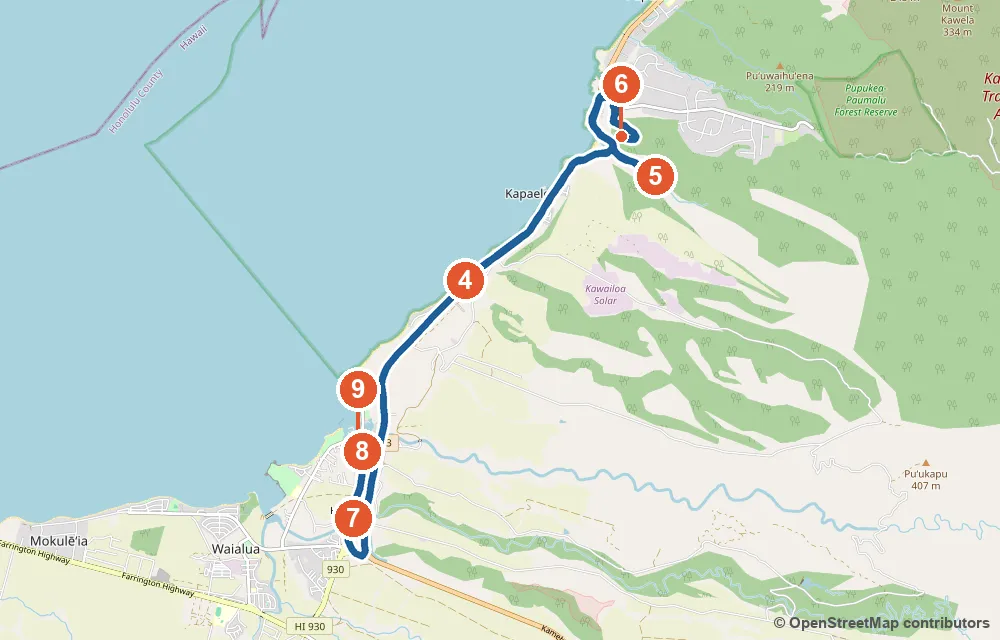
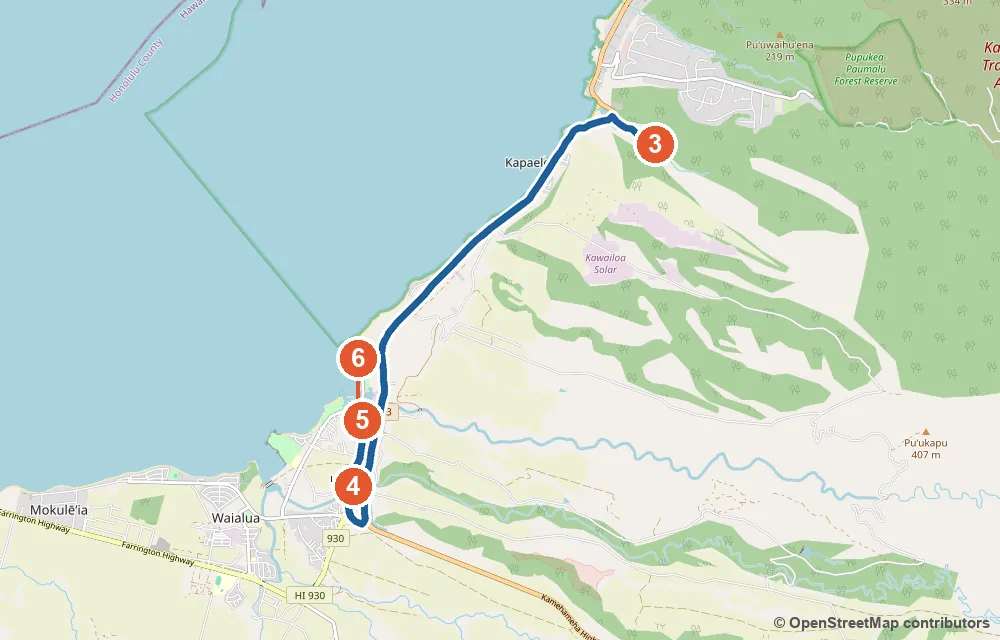
11/8 스탑 다이어트 — 그린월드·라니아케아·헤이아우 뺌, 커피는 숙소 근처 테이크아웃

diff --git a/index.html b/index.html
@@ -12,7 +12,7 @@
 // GitHub Pages 는 HTML 을 10분 캐시한다(헤더는 못 바꿈) → 열 때마다 version.json 을 캐시 없이 확인해
 // 새 버전이면 주소에 ?v=버전 을 붙여 한 번만 새로 불러온다 (같은 버전으로 이미 시도했으면 멈춤)
 (function () {
-  var BUILD = 'd3f5a4e1de';
+  var BUILD = '93f5e79c60';
   try {
     fetch('version.json?t=' + Date.now(), { cache: 'no-store' })
       .then(function (r) { return r.ok ? r.json() : null; })
@@ -354,7 +354,7 @@ footer { max-width: 1100px; margin: 0 auto; padding: 0 16px 48px; color: var(--m
 </section><section class="sec hotel"><div class="sec-head"><span class="sec-ic">🏨</span><h2 id="숙소-메리어트-3박-비치타워-콘도-4박-걸어서-3분">숙소</h2><small>메리어트 3박 · 비치타워 콘도 4박 (걸어서 3분)</small></div>
 <div class="tickets"><div class="hotel"><div class="tk-top"><span>11/4 (수) – 11/7 (토) · 3박 · 아고다</span></div><div class="ht-name">와이키키 비치 메리어트 리조트 &amp; 스파</div><div class="ht-times"><div><span>체크인</span><b>15:00</b><small>11/4 (수)</small></div><div><span>체크아웃</span><b>11:00</b><small>11/7 (토)</small></div></div><dl class="ht-facts"><dt>☎ 전화</dt><dd><ul class="ht-fac"><li>한국에서 <strong>001-1-808-922-6611</strong> (KT 001 · LG U+ 002 · SK 00700)</li><li>휴대폰은 <strong><a href="tel:+18089226611">+1 808 922 6611</a></strong> (누르면 바로 걸려요)</li><li>프런트 24시간 · 하와이는 한국보다 19시간 늦어요</li></ul></dd><dt>🛏 방</dt><dd><strong>객실 2개 예약 확정</strong> — 방 1: 시티뷰 퀸 1 또는 더블 2 (성인 2) · 방 2: 와이키키 시티뷰 킹 1 + 소파베드, 발코니 (성인 3) — <strong>침대는 킹 1 + 소파베드뿐</strong> (추가 침대·침대 2개 방 변경 안 됨, 11/3 확인)</dd><dt>🚿 욕실</dt><dd>객실마다 1개</dd><dt>🍳 조식</dt><dd><strong>방마다 성인 2명 포함</strong> (전화 확인 11/3) — 2번 방 세 번째 사람은 <strong>추가 요금</strong> · 2층 Kuhio Beach Grill 뷔페 (05:00–11:00)</dd><dt>🅿 주차</dt><dd><strong>호텔 셀프 주차</strong> $65/일 · 발렛 $80/일 (세금 별도 · 셀프 3박 약 $204) — 근처 반얀 주차장은 24시간 $50 (공사 중 요금 · 높이 183cm 제한)이라 하루 $15 정도 차이 · ⚠ 후기: 셀프 주차장이 좁고 자주 꽉 차서 발렛으로 돌린 일, SUV가 높아 못 들어가 발렛 쓴 일 있음 (2024~2026) · <strong>미리 예약 필요 없음</strong> (11/3 호텔 확인)</dd><dt>🏝 시설</dt><dd><ul class="ht-fac"><li>🏊 <strong>수영장 2개</strong> — 옥상 Queensbreak에 가족 풀 + 21세 이상 성인 풀, 온수 욕조 (07:00–22:00)</li><li>🍽 <strong>식당·바·카페 7곳</strong> — Kuhio Beach Grill (조식 뷔페 05–11, 2층) · Arancino di Mare (이탈리안 저녁 17–21) · Queensbreak 레스토랑·풀사이드 바 (옥상 11–23) · 스타벅스 2곳 · Island Vintage 셰이브아이스 — Sansei·DK Steakhouse는 2025.9 폐업</li><li>🛒 <strong>ABC 스토어</strong> (로비층 편의점)</li><li>🧺 <strong>셀프 세탁실</strong> (Paoakalani 타워 2층) — 세탁·건조 각 $6.50 (2026.5 투숙 후기), 카드 결제 · 드라이클리닝 서비스 별도</li><li>💆 Royal Kaila 스파 (09–18) · 피트니스 24시간</li><li>🌺 우쿨렐레·훌라·레이 만들기 수업 (리조트피 포함)</li><li>🎭 Paina Waikiki 루아우 디너쇼 (월·수·금·토·일, 별도 예약)</li><li>🗣 일본어 직원 있음 · 한국어 직원 없음 (11/3 전화 확인)</li></ul></dd></dl><ul class="ht-notes"><li>11/4 체크인 전·11/7 체크아웃 뒤 <strong>벨데스크 짐 보관</strong></li><li>리조트피 객실당 1박 $59 + 세금 (약 $70, 현장 결제 — Wi-Fi·비치체어 또는 부기보드·문화 수업 포함)</li><li>체크인은 예약자 본인 여권 + 실물 카드</li></ul></div><div class="hotel"><div class="tk-top"><span>11/7 (토) – 11/11 (수) · 4박</span></div><div class="ht-name">와이키키 비치 타워 콘도 (에어비앤비)</div><div class="ht-times"><div><span>체크인</span><b>15:00</b><small>11/7 (토)</small></div><div><span>체크아웃</span><b>11:00</b><small>11/11 (수)</small></div></div><dl class="ht-facts"><dt>☎ 전화</dt><dd><ul class="ht-fac"><li>관리 회사(캡틴 쿡 리조트)는 <strong>에어비앤비 앱 메시지</strong></li><li>관리자 전화번호는 11/5 15:00(하와이)부터 앱의 입실 안내에 나와요</li></ul></dd><dt>🛏 방</dt><dd><strong>침실 2개</strong> — 안방 킹 1 · 게스트룸 트윈 2 (요청 시 킹 1) · 거실 퀸 소파베드 · 최대 6명 · 실내 약 107㎡ + 오션뷰 발코니</dd><dt>🚿 욕실</dt><dd><strong>2개</strong> (안방 전용 1 + 공용 1)</dd><dt>🍳 조식</dt><dd>없음 — 주방 완비, 아침은 장봐서</dd><dt>🅿 주차</dt><dd><strong>발렛 1대 무료</strong> (차 높이 188cm까지, 셔틀 크기 밴 불가) · 차량 사전 등록 필요 없음 · 머무는 동안만 · 리조트피 없음</dd><dt>🏝 시설</dt><dd><ul class="ht-fac"><li>🧺 집 안 <strong>세탁기·건조기</strong> (무료)</li><li>🏊 건물 수영장·스파·피트니스</li><li>🍳 주방 완비</li></ul></dd></dl><ul class="ht-notes"><li>체크인·체크아웃 시각은 <strong>에어비앤비 예약·호스트 안내 기준</strong></li><li>도착 후 <strong>관리자에게 전화</strong>해서 체크인</li><li>매일 청소·수건 보충 없음</li><li>커피·조미료·식용유·지퍼백 없음</li></ul></div></div>
 </section><section class="sec overview"><div class="sec-head"><span class="sec-ic">🗓</span><h2 id="1-한눈에-보기">한눈에 보기</h2></div>
-<div class="ov-grid"><a class="ov c0" href="#114-수-도착-짐부터-호텔에-가볍게"><div class="ov-head"><b>11/4</b><em>수</em><span>도착</span></div><ul><li><i>🛍</i>월마트 / 돈키호테 (장보기)</li><li><i>🍳</i>기내</li><li><i>🍱</i>Highway Inn 카카아코</li><li><i>🍽</i>🌅 DECK. 일몰 (17:30)</li></ul></a><a class="ov c1" href="#115-목-진주만-와이켈레-아울렛"><div class="ov-head"><b>11/5</b><em>목</em><span>진주만</span></div><ul><li><i>🛍</i><strong>와이켈레 아울렛</strong></li><li><i>🍳</i>메리어트 조식</li><li><i>🍱</i>Restaurant 604</li><li><i>🍽</i>🍝 Arancino (호텔 1층)</li></ul></a><a class="ov c2" href="#116-금-동부-해안-카일루아-해안-먼저-저녁은-카일루아"><div class="ov-head"><b>11/6</b><em>금</em><span>동부 해안</span></div><ul><li><i>🥾</i><strong>마카푸우 등대</strong> · (선택, 아들) 라니카이 필박스</li><li><i>🛍</i><strong>카일루아</strong> 마노아 초콜릿·Whole Foods·타운</li><li><i>🍳</i>메리어트 조식</li><li><i>🍱</i>Kalapawai Café</li><li><i>🍽</i>🍺 <strong>Yard House</strong> (워크인 · 비치워크)</li></ul></a><a class="ov c3" href="#117-토-체크아웃-와이켈레-골프-큰형나-교회-작은형부모님-비치타워-체크인"><div class="ov-head"><b>11/7</b><em>토</em><span>이동일</span></div><ul><li><i>🥾</i>⛳ <strong>와이켈레 골프 12:34</strong> (큰형·나) · <del>다이아몬드헤드</del> ❌</li><li><i>🛍</i>⛪ 교회 10~14 (작은형·부모님) · 🧳 체크아웃 → 비치타워 체크인 15:00</li><li><i>🍳</i>메리어트 조식</li><li><i>🍱</i>각자 (골프장 스낵바 · 교회)</li><li><i>🍽</i>🍚 <strong>Suntory</strong> ✅ 다녀옴 (단품 샤브)</li></ul></a><a class="ov c4" href="#118-일-노스쇼어-종일"><div class="ov-head"><b>11/8</b><em>일</em><span>노스쇼어</span></div><ul><li><i>🥾</i><strong>와이메아 밸리 폭포</strong> · 헤이아우 전망</li><li><i>🛍</i><strong>할레이바 타운</strong> · 돌 플랜테이션 · 🛒 H Mart (귀갓길)</li><li><i>🍳</i>🏠 콘도 아침</li><li><i>🍱</i>Giovanni's</li><li><i>🍽</i>Haleiwa Joe's (노을)</li></ul></a><a class="ov c5" href="#119-월-서쪽-해안-93번-드라이브-쇼핑-와이키키-마지막-여유일"><div class="ov-head"><b>11/9</b><em>월</em><span>서쪽 해안·쇼핑</span></div><ul><li><i>🥾</i><strong>93번 서쪽 해안 드라이브</strong> (코올리나 라군·마카하·요코하마 베이)</li><li><i>🛍</i><strong>워드 빌리지·월마트</strong> (귀갓길 선택)</li><li><i>🍳</i>🏠 콘도 아침</li><li><i>🍱</i>Monkeypod Kitchen (코올리나)</li><li><i>🍽</i>🐟 <strong>Nico's Pier 38</strong> (시푸드)</li></ul></a><a class="ov c6" href="#1110-화-뵤도인-폴리네시안-문화센터-pcc"><div class="ov-head"><b>11/10</b><em>화</em><span>PCC</span></div><ul><li><i>🥾</i><strong>팔리 전망대 · 뵤도인 사원</strong> (또는 호오말루히아)</li><li><i>🛍</i>후킬라우 마켓플레이스</li><li><i>🍳</i>🏠 콘도 아침</li><li><i>🍱</i>Seven Brothers / Giovanni's 카후쿠</li><li><i>🍽</i>PCC 루아우</li></ul></a><a class="ov c7" href="#1111-수-출발-veterans-day-공휴일"><div class="ov-head"><b>11/11</b><em>수</em><span>출발</span></div><ul><li><i>🍳</i>🏠 콘도 간단히 · 무스비 포장</li><li><i>🍱</i>기내</li></ul></a></div>
+<div class="ov-grid"><a class="ov c0" href="#114-수-도착-짐부터-호텔에-가볍게"><div class="ov-head"><b>11/4</b><em>수</em><span>도착</span></div><ul><li><i>🛍</i>월마트 / 돈키호테 (장보기)</li><li><i>🍳</i>기내</li><li><i>🍱</i>Highway Inn 카카아코</li><li><i>🍽</i>🌅 DECK. 일몰 (17:30)</li></ul></a><a class="ov c1" href="#115-목-진주만-와이켈레-아울렛"><div class="ov-head"><b>11/5</b><em>목</em><span>진주만</span></div><ul><li><i>🛍</i><strong>와이켈레 아울렛</strong></li><li><i>🍳</i>메리어트 조식</li><li><i>🍱</i>Restaurant 604</li><li><i>🍽</i>🍝 Arancino (호텔 1층)</li></ul></a><a class="ov c2" href="#116-금-동부-해안-카일루아-해안-먼저-저녁은-카일루아"><div class="ov-head"><b>11/6</b><em>금</em><span>동부 해안</span></div><ul><li><i>🥾</i><strong>마카푸우 등대</strong> · (선택, 아들) 라니카이 필박스</li><li><i>🛍</i><strong>카일루아</strong> 마노아 초콜릿·Whole Foods·타운</li><li><i>🍳</i>메리어트 조식</li><li><i>🍱</i>Kalapawai Café</li><li><i>🍽</i>🍺 <strong>Yard House</strong> (워크인 · 비치워크)</li></ul></a><a class="ov c3" href="#117-토-체크아웃-와이켈레-골프-큰형나-교회-작은형부모님-비치타워-체크인"><div class="ov-head"><b>11/7</b><em>토</em><span>이동일</span></div><ul><li><i>🥾</i>⛳ <strong>와이켈레 골프 12:34</strong> (큰형·나) · <del>다이아몬드헤드</del> ❌</li><li><i>🛍</i>⛪ 교회 10~14 (작은형·부모님) · 🧳 체크아웃 → 비치타워 체크인 15:00</li><li><i>🍳</i>메리어트 조식</li><li><i>🍱</i>각자 (골프장 스낵바 · 교회)</li><li><i>🍽</i>🍚 <strong>Suntory</strong> ✅ 다녀옴 (단품 샤브)</li></ul></a><a class="ov c4" href="#118-일-노스쇼어-종일"><div class="ov-head"><b>11/8</b><em>일</em><span>노스쇼어</span></div><ul><li><i>🥾</i><strong>와이메아 밸리 폭포</strong></li><li><i>🛍</i><strong>할레이바 타운</strong> · 돌 플랜테이션 · 🛒 H Mart (귀갓길)</li><li><i>🍳</i>🏠 콘도 아침</li><li><i>🍱</i>Giovanni's</li><li><i>🍽</i>Haleiwa Joe's (노을)</li></ul></a><a class="ov c5" href="#119-월-서쪽-해안-93번-드라이브-쇼핑-와이키키-마지막-여유일"><div class="ov-head"><b>11/9</b><em>월</em><span>서쪽 해안·쇼핑</span></div><ul><li><i>🥾</i><strong>93번 서쪽 해안 드라이브</strong> (코올리나 라군·마카하·요코하마 베이)</li><li><i>🛍</i><strong>워드 빌리지·월마트</strong> (귀갓길 선택)</li><li><i>🍳</i>🏠 콘도 아침</li><li><i>🍱</i>Monkeypod Kitchen (코올리나)</li><li><i>🍽</i>🐟 <strong>Nico's Pier 38</strong> (시푸드)</li></ul></a><a class="ov c6" href="#1110-화-뵤도인-폴리네시안-문화센터-pcc"><div class="ov-head"><b>11/10</b><em>화</em><span>PCC</span></div><ul><li><i>🥾</i><strong>팔리 전망대 · 뵤도인 사원</strong> (또는 호오말루히아)</li><li><i>🛍</i>후킬라우 마켓플레이스</li><li><i>🍳</i>🏠 콘도 아침</li><li><i>🍱</i>Seven Brothers / Giovanni's 카후쿠</li><li><i>🍽</i>PCC 루아우</li></ul></a><a class="ov c7" href="#1111-수-출발-veterans-day-공휴일"><div class="ov-head"><b>11/11</b><em>수</em><span>출발</span></div><ul><li><i>🍳</i>🏠 콘도 간단히 · 무스비 포장</li><li><i>🍱</i>기내</li></ul></a></div>
 
 </section><section class="sec days"><div class="sec-head"><span class="sec-ic">📍</span><h2 id="2-날짜별-상세-시간-장소-주차">날짜별 상세</h2><small>시간 · 장소 · 주차</small></div>
 <blockquote>
@@ -363,17 +363,17 @@ footer { max-width: 1100px; margin: 0 auto; padding: 0 16px 48px; color: var(--m
 <p><strong>날씨 줄 읽는 법</strong> (11/3 HST 조회): ☔ 비 확률과 🌡 최저~최고 = 미국 기상청(NWS) 지점 예보의 낮·밤 값 — <strong>11/9부터는</strong> 기상청 7일 예보 범위 밖이라 수치모델(Open-Meteo)의 하루 최대 비 확률·최저~최고 · 💨 낮(08–18시) 평균 바람과 최대 돌풍 = Open-Meteo. 초속 6~8m는 모자가 날아갈 만큼, 돌풍 15m 이상은 우산이 뒤집힐 만큼 세요. 예보는 매일 바뀌니 전날 다시 확인하세요.</p>
 </blockquote>
 <article class="day c0" data-date="11/8"><div class="day-head"><div class="date-badge"><b>11/8</b><span>일요일</span></div><div class="day-title"><h3 id="118-일-노스쇼어-종일">노스쇼어 종일</h3></div></div><div class="day-body">
-<p class="wx">🌧 할레이바·노스쇼어 ☔ 85% — 오전 50%대 → 오후 15~16시 85%로 <strong>갈수록 비</strong> · 🌡 22~27°C · 💨 돌풍 16m (동북동) · 파도 최대 2.2m 중형 — 그래서 야외(밸리·헤이아우)를 오전으로 당겼어요 · 큰 파도는 마른 모래까지 덮칠 수 있음 <em>(11/5 밤 갱신)</em></p>
-<figure class="routemap"><img src="maps/1108.webp?v=9b1a08839f" loading="lazy" width="1000" height="640" alt="11/8 지도"><figcaption><div class="rm-stops"><b>①</b> 비치타워 콘도 → <b>②</b> Green World 커피 → <b>③</b> 돌 플랜테이션 → <b>④</b> 라니아케아 → <b>⑤</b> 와이메아 밸리 → <b>⑥</b> 헤이아우 → <b>⑦</b> Giovanni's → <b>⑧</b> 할레이바 타운 → <b>⑨</b> Haleiwa Joe's → <b>⑩</b> H Mart 카카아코 → <b>⑪</b> 비치타워 콘도</div><div class="rm-meta">🚗 하루 운전 약 139km · 막히지 않으면 약 2시간 57분 · 파란 선 = 차</div><div class="rm-links">🧭 구글 지도 길찾기 <a href="https://www.google.com/maps/dir/?api=1&amp;origin=Waikiki+Beach+Tower+2470+Kalakaua+Ave+Honolulu&amp;destination=Waimea+Valley&amp;travelmode=driving&amp;waypoints=Green+World+Coffee+Farm+Wahiawa%7CDole+Plantation%7CLaniakea+Beach" target="_blank" rel="noopener">①→⑤</a><a href="https://www.google.com/maps/dir/?api=1&amp;origin=Waimea+Valley&amp;destination=Haleiwa+Joe%27s+66-011+Kamehameha+Hwy+Haleiwa&amp;travelmode=driving&amp;waypoints=Puu+o+Mahuka+Heiau+State+Historic+Site%7CGiovanni%27s+Shrimp+Truck+66-472+Kamehameha+Hwy+Haleiwa%7CHaleiwa+Store+Lots" target="_blank" rel="noopener">⑤→⑨</a><a href="https://www.google.com/maps/dir/?api=1&amp;origin=Haleiwa+Joe%27s+66-011+Kamehameha+Hwy+Haleiwa&amp;destination=Waikiki+Beach+Tower+2470+Kalakaua+Ave+Honolulu&amp;travelmode=driving&amp;waypoints=H+Mart+Kakaako+458+Keawe+St+Honolulu" target="_blank" rel="noopener">⑨→⑪</a></div></figcaption><details class="rm-zoom"><summary>🔍 확대 지도 — 할레이바·노스쇼어 (④~⑨)</summary><img src="maps/1108-zoom.webp?v=9b1a08839f" loading="lazy" width="1000" height="640" alt="11/8 할레이바·노스쇼어 확대 지도"></details></figure><div class="gallery"><figure><a href="https://commons.wikimedia.org/wiki/File:Dolejf2103.JPG" target="_blank" rel="noopener"><img src="https://thumb.wikimedia.org/wikipedia/commons/thumb/4/43/Dolejf2103.JPG/960px-Dolejf2103.JPG?utm_source=commons.wikimedia.org&utm_campaign=imageinfo&utm_content=thumbnail" alt="돌 플랜테이션" loading="lazy" decoding="async"></a><figcaption><b>돌 플랜테이션</b><small>© Ramon FVelasquez · CC BY-SA 3.0</small></figcaption></figure><figure><a href="https://commons.wikimedia.org/wiki/File:Haleiwa_bridge.jpg" target="_blank" rel="noopener"><img src="https://thumb.wikimedia.org/wikipedia/commons/thumb/9/92/Haleiwa_bridge.jpg/960px-Haleiwa_bridge.jpg?utm_source=commons.wikimedia.org&utm_campaign=imageinfo&utm_content=thumbnail" alt="할레이바 타운" loading="lazy" decoding="async"></a><figcaption><b>할레이바 타운</b><small>© Eric Guinther · CC BY-SA 3.0</small></figcaption></figure><figure><a href="https://commons.wikimedia.org/wiki/File:Ore_Haleiwa_Hawaii_Oahu_Matsumoto_Shave_Ice_(33673670325).jpg" target="_blank" rel="noopener"><img src="https://thumb.wikimedia.org/wikipedia/commons/thumb/1/16/Ore_Haleiwa_Hawaii_Oahu_Matsumoto_Shave_Ice_%2833673670325%29.jpg/960px-Ore_Haleiwa_Hawaii_Oahu_Matsumoto_Shave_Ice_%2833673670325%29.jpg?utm_source=commons.wikimedia.org&utm_campaign=imageinfo&utm_content=thumbnail" alt="마츠모토 셰이브아이스" loading="lazy" decoding="async"></a><figcaption><b>마츠모토 셰이브아이스</b><small>© Anthony Quintano from Honolulu, HI, Unit · CC BY 2.0</small></figcaption></figure><figure><a href="https://commons.wikimedia.org/wiki/File:Green_sea_turtle_(Chelonia_mydas)_Moorea.jpg" target="_blank" rel="noopener"><img src="https://thumb.wikimedia.org/wikipedia/commons/thumb/a/a3/Green_sea_turtle_%28Chelonia_mydas%29_Moorea.jpg/960px-Green_sea_turtle_%28Chelonia_mydas%29_Moorea.jpg?utm_source=commons.wikimedia.org&utm_campaign=imageinfo&utm_content=thumbnail" alt="바다거북 (호누)" loading="lazy" decoding="async"></a><figcaption><b>바다거북 (호누)</b><small>© Charles J. Sharp · CC BY-SA 4.0</small></figcaption></figure><figure><a href="https://commons.wikimedia.org/wiki/File:WaimeaValleyEntrance.jpg" target="_blank" rel="noopener"><img src="https://upload.wikimedia.org/wikipedia/commons/7/7d/WaimeaValleyEntrance.jpg?utm_source=commons.wikimedia.org&utm_campaign=imageinfo&utm_content=thumbnail_unscaled" alt="와이메아 밸리" loading="lazy" decoding="async"></a><figcaption><b>와이메아 밸리</b><small>© Travis.Thurston · CC BY-SA 3.0</small></figcaption></figure><figure><a href="https://commons.wikimedia.org/wiki/File:Empty_wave_at_Banzai_Pipeline.jpeg" target="_blank" rel="noopener"><img src="https://upload.wikimedia.org/wikipedia/commons/0/03/Empty_wave_at_Banzai_Pipeline.jpeg?utm_source=commons.wikimedia.org&utm_campaign=imageinfo&utm_content=thumbnail_unscaled" alt="선셋비치·파이프라인" loading="lazy" decoding="async"></a><figcaption><b>선셋비치·파이프라인</b><small>© Mat-fa · CC BY-SA 3.0</small></figcaption></figure></div><ol class="tl"><li><div class="t">08:00–08:50</div><div class="c"><div class="place">🏠 <strong>콘도 아침</strong> (비치타워 첫 아침)</div><div class="what"><del>Duke's 조식 뷔페</del> ❌ 예약 안 함 — 다들 조식 외식 생략 (11/7 밤 결정) · 집에 있는 걸로 간단히</div></div></li><li><div class="t">09:00</div><div class="c"><div class="place">출발 (H-1→H-2→99번, 약 45분)</div><div class="what">발렛 출차 미리 요청</div></div></li><li><div class="t">09:45–10:05</div><div class="c"><div class="place">☕ <a href="https://www.google.com/maps/search/?api=1&query=Green+World+Coffee+Farm+Wahiawa" target="_blank" rel="noopener"><strong>Green World Coffee Farm</strong></a> (와히아와 99번 길가, 07:00~)</div><div class="what">커피 농장 카페 — 구글 리뷰 4,971 · 돌 플랜테이션 5분 전</div><div class="park">🅿 무료</div></div></li><li><div class="t">10:10–10:40</div><div class="c"><div class="place"><a href="https://www.google.com/maps/search/?api=1&query=Dole+Plantation" target="_blank" rel="noopener"><strong>돌 플랜테이션</strong></a> (09:30–17:30)</div><div class="what"><strong>짧게</strong> — 현지인은 "지나가며 잠깐 들르는 곳" 평 · Dole Whip · 정원 무료 (기차 $15 · 미로 $10은 선택)</div><div class="park">🅿 무료 (미확인)</div></div></li><li><div class="t">10:50–11:10</div><div class="c"><div class="place">라니아케아</div><div class="what">바다거북 (3m 이상 거리) · <strong>안전하게 건너고 볼 자리 없으면 통과</strong></div><div class="park">🅿 길 건너 비포장 · 도로 이설 공사 중단 상태</div></div></li><li><div class="t">11:15–12:50</div><div class="c"><div class="place">🥾 <a href="https://www.google.com/maps/search/?api=1&query=Waimea+Valley" target="_blank" rel="noopener"><strong>와이메아 밸리</strong></a> (화–일 09–16)</div><div class="what">폭포까지 포장 산책 · 성인 $26 · 62세 이상 $20 · 셔틀 편도 $10 · 길 미끄러우면 폭포는 셔틀로</div><div class="park">🅿 <strong>1시간 $2 · 최대 4시간 $5</strong> (입장객 전용, 해변용 주차 시 견인)</div><figure class="routemap"><img src="maps/hike-waimea.webp?v=31b8907c65" loading="lazy" width="1000" height="640" alt="하이킹: 와이메아 밸리 지도"><figcaption><div class="rm-stops"><b>🥾 와이메아 밸리 코스</b> · <b>①</b> 입구 (방문자센터) → <b>②</b> 와이메아 폭포</div><div class="rm-meta">왕복 약 2.4km 포장 산책로 · 셔틀 편도 $10 · 초록 선 = 걷는 길 (대략)</div><div class="rm-links">🧭 구글 지도 <a href="https://www.google.com/maps/search/?api=1&amp;query=21.635275,-158.052933" target="_blank" rel="noopener">📍 입구</a></div></figcaption></figure></div></li><li><div class="t">13:00–13:35</div><div class="c"><div class="place">🏞 <a href="https://www.google.com/maps/search/?api=1&query=Puu+o+Mahuka+Heiau+State+Historic+Site" target="_blank" rel="noopener"><strong>푸우 오 마후카 헤이아우</strong></a> (주립 사적지 · 무료 · 09:00–17:30)</div><div class="what">오아후에서 가장 큰 옛 하와이 신전 터 (돌담만 남은 약 2에이커) · 언덕 위에서 <strong>와이메아 베이·밸리 전망</strong> · 신성한 곳이라 돌담에 오르거나 돌을 옮기지 않기</div><div class="park">🅿 현장 주차 · 밸리에서 차로 약 10분 (푸푸케아 언덕길, 좁고 구불구불)</div></div></li><li><div class="t">13:35–13:50</div><div class="c"><div class="place">할레이바로 (약 15분)</div></div></li><li><div class="t">13:50–14:35</div><div class="c"><div class="place"><a href="https://www.google.com/maps/search/?api=1&query=Giovanni%27s+Shrimp+Truck+Haleiwa" target="_blank" rel="noopener"><strong>Giovanni's 할레이바</strong></a> (10:30–17:00)</div><div class="what">늦은 점심 (가볍게) — 갈릭 쉬림프 스캠피 (🍴 이번 여행 새우는 여기서) · 줄이 길면 <strong>Big Wave Shrimp</strong> (갈릭 쉬림프 독자 투표 1위) 또는 근처 한식 트럭 <strong>Young's Lunch Wagon</strong> (66-521 · 가이드북 '로라 이모네'로 추정)</div><div class="park">🅿 푸드트럭 주차장 <strong>$2–3 현금</strong></div></div></li><li><div class="t">14:40–16:10</div><div class="c"><div class="place">🛍 <a href="https://www.google.com/maps/search/?api=1&query=Haleiwa+Store+Lots" target="_blank" rel="noopener"><strong>할레이바 타운</strong></a> (비 피크 — 실내 위주)</div><div class="what">Haleiwa Store Lots · North Shore Marketplace (서핑 브랜드, Clark Little 갤러리) · <strong>마츠모토 셰이브아이스</strong> (10–18, 줄이 길면 옆집 <strong>Aoki's</strong> — 현지인 선호) · Island Vintage Coffee 할레이바 (07–17, 아사이볼)</div><div class="park">🅿 고객용 무료</div></div></li><li><div class="t">16:15–18:00</div><div class="c"><div class="place">🌅 <a href="https://www.google.com/maps/search/?api=1&query=Haleiwa+Joe%27s+66-011+Kamehameha+Hwy+Haleiwa" target="_blank" rel="noopener"><strong>Haleiwa Joe's</strong></a> (할레이바 항구 옆 66-011 Kamehameha Hwy · 저녁 16:30~ · ☎ 808-637-8005)</div><div class="what">저녁 — <strong>예약 안 받음, 선착순 → 16:30 저녁 시작 무렵 도착해 바로 이름 올리기</strong> (일요일은 11시부터 열려 있어요 · 저녁 손님이 몰리기 전이 가장 짧고, 평일 16:45에 마지막 자리였다는 후기도 있어 늦지 않게) · 항구·바다 전망 야외석에서 <strong>노을 17:50쯤</strong> · 🍴 <strong>주문: 생선 요리(구운·찐 생선, 통생선 튀김)·스티키 립·블랙&amp;블루 아히</strong> (코코넛 새우·필앤잇 새우는 점심 Giovanni's와 겹침) · 프라임 립($74.95)은 크게 나와서 나눠 먹기</div><div class="park">🅿 무료 주차장 + 길가 무료 주차</div></div></li><li><div class="t">18:00–18:50</div><div class="c"><div class="place">할레이바 → 카카아코 (H-2→H-1 약 50분)</div></div></li><li><div class="t">18:50–19:30</div><div class="c"><div class="place">🛒 <a href="https://www.google.com/maps/search/?api=1&query=H+Mart+Kakaako+458+Keawe+St+Honolulu" target="_blank" rel="noopener"><strong>H Mart 카카아코</strong></a> (458 Keawe St 2층 · 매일 08–22시 · ★4.3 · 1,197)</div><div class="what"><strong>한인 마트 장보기 — 콘도 아침거리</strong> (쌀·반찬·김·라면·국거리·과일) · 3층엔 푸드홀도 · 와이키키 가는 길목이라 추가 10분이면 돼요</div><div class="park">🅿 건물 주차장 (매장 인증 여부 현장 확인)</div></div></li><li><div class="t">19:30–19:45</div><div class="c"><div class="place">콘도 복귀</div><div class="what">장본 것 정리하고 휴식</div><div class="park">🅿 발렛</div></div></li></ol>
+<p class="wx">🌧 할레이바·노스쇼어 ☔ 85% — 오전 50%대 → 오후 15~16시 85%로 <strong>갈수록 비</strong> · 🌡 22~27°C · 💨 돌풍 16m (동북동) · 파도 최대 2.2m 중형 — 그래서 야외(밸리)를 오전으로 당겼어요 · 큰 파도는 마른 모래까지 덮칠 수 있음 <em>(11/5 밤 갱신)</em></p>
+<figure class="routemap"><img src="maps/1108.webp?v=9f9621a9d2" loading="lazy" width="1000" height="640" alt="11/8 지도"><figcaption><div class="rm-stops"><b>①</b> 비치타워 콘도 → <b>②</b> 돌 플랜테이션 → <b>③</b> 와이메아 밸리 → <b>④</b> Giovanni's → <b>⑤</b> 할레이바 타운 → <b>⑥</b> Haleiwa Joe's → <b>⑦</b> H Mart 카카아코 → <b>⑧</b> 비치타워 콘도</div><div class="rm-meta">🚗 하루 운전 약 132km · 막히지 않으면 약 2시간 40분 · 파란 선 = 차</div><div class="rm-links">🧭 구글 지도 길찾기 <a href="https://www.google.com/maps/dir/?api=1&amp;origin=Waikiki+Beach+Tower+2470+Kalakaua+Ave+Honolulu&amp;destination=Haleiwa+Store+Lots&amp;travelmode=driving&amp;waypoints=Dole+Plantation%7CWaimea+Valley%7CGiovanni%27s+Shrimp+Truck+66-472+Kamehameha+Hwy+Haleiwa" target="_blank" rel="noopener">①→⑤</a><a href="https://www.google.com/maps/dir/?api=1&amp;origin=Haleiwa+Store+Lots&amp;destination=Waikiki+Beach+Tower+2470+Kalakaua+Ave+Honolulu&amp;travelmode=driving&amp;waypoints=Haleiwa+Joe%27s+66-011+Kamehameha+Hwy+Haleiwa%7CH+Mart+Kakaako+458+Keawe+St+Honolulu" target="_blank" rel="noopener">⑤→⑧</a></div></figcaption><details class="rm-zoom"><summary>🔍 확대 지도 — 할레이바·노스쇼어 (③~⑥)</summary><img src="maps/1108-zoom.webp?v=9f9621a9d2" loading="lazy" width="1000" height="640" alt="11/8 할레이바·노스쇼어 확대 지도"></details></figure><div class="gallery"><figure><a href="https://commons.wikimedia.org/wiki/File:Dolejf2103.JPG" target="_blank" rel="noopener"><img src="https://thumb.wikimedia.org/wikipedia/commons/thumb/4/43/Dolejf2103.JPG/960px-Dolejf2103.JPG?utm_source=commons.wikimedia.org&utm_campaign=imageinfo&utm_content=thumbnail" alt="돌 플랜테이션" loading="lazy" decoding="async"></a><figcaption><b>돌 플랜테이션</b><small>© Ramon FVelasquez · CC BY-SA 3.0</small></figcaption></figure><figure><a href="https://commons.wikimedia.org/wiki/File:Haleiwa_bridge.jpg" target="_blank" rel="noopener"><img src="https://thumb.wikimedia.org/wikipedia/commons/thumb/9/92/Haleiwa_bridge.jpg/960px-Haleiwa_bridge.jpg?utm_source=commons.wikimedia.org&utm_campaign=imageinfo&utm_content=thumbnail" alt="할레이바 타운" loading="lazy" decoding="async"></a><figcaption><b>할레이바 타운</b><small>© Eric Guinther · CC BY-SA 3.0</small></figcaption></figure><figure><a href="https://commons.wikimedia.org/wiki/File:Ore_Haleiwa_Hawaii_Oahu_Matsumoto_Shave_Ice_(33673670325).jpg" target="_blank" rel="noopener"><img src="https://thumb.wikimedia.org/wikipedia/commons/thumb/1/16/Ore_Haleiwa_Hawaii_Oahu_Matsumoto_Shave_Ice_%2833673670325%29.jpg/960px-Ore_Haleiwa_Hawaii_Oahu_Matsumoto_Shave_Ice_%2833673670325%29.jpg?utm_source=commons.wikimedia.org&utm_campaign=imageinfo&utm_content=thumbnail" alt="마츠모토 셰이브아이스" loading="lazy" decoding="async"></a><figcaption><b>마츠모토 셰이브아이스</b><small>© Anthony Quintano from Honolulu, HI, Unit · CC BY 2.0</small></figcaption></figure><figure><a href="https://commons.wikimedia.org/wiki/File:Green_sea_turtle_(Chelonia_mydas)_Moorea.jpg" target="_blank" rel="noopener"><img src="https://thumb.wikimedia.org/wikipedia/commons/thumb/a/a3/Green_sea_turtle_%28Chelonia_mydas%29_Moorea.jpg/960px-Green_sea_turtle_%28Chelonia_mydas%29_Moorea.jpg?utm_source=commons.wikimedia.org&utm_campaign=imageinfo&utm_content=thumbnail" alt="바다거북 (호누)" loading="lazy" decoding="async"></a><figcaption><b>바다거북 (호누)</b><small>© Charles J. Sharp · CC BY-SA 4.0</small></figcaption></figure><figure><a href="https://commons.wikimedia.org/wiki/File:WaimeaValleyEntrance.jpg" target="_blank" rel="noopener"><img src="https://upload.wikimedia.org/wikipedia/commons/7/7d/WaimeaValleyEntrance.jpg?utm_source=commons.wikimedia.org&utm_campaign=imageinfo&utm_content=thumbnail_unscaled" alt="와이메아 밸리" loading="lazy" decoding="async"></a><figcaption><b>와이메아 밸리</b><small>© Travis.Thurston · CC BY-SA 3.0</small></figcaption></figure><figure><a href="https://commons.wikimedia.org/wiki/File:Empty_wave_at_Banzai_Pipeline.jpeg" target="_blank" rel="noopener"><img src="https://upload.wikimedia.org/wikipedia/commons/0/03/Empty_wave_at_Banzai_Pipeline.jpeg?utm_source=commons.wikimedia.org&utm_campaign=imageinfo&utm_content=thumbnail_unscaled" alt="선셋비치·파이프라인" loading="lazy" decoding="async"></a><figcaption><b>선셋비치·파이프라인</b><small>© Mat-fa · CC BY-SA 3.0</small></figcaption></figure></div><ol class="tl"><li><div class="t">08:00–08:50</div><div class="c"><div class="place">🏠 <strong>콘도 아침</strong> (비치타워 첫 아침)</div><div class="what"><del>Duke's 조식 뷔페</del> ❌ 예약 안 함 — 다들 조식 외식 생략 (11/7 밤 결정) · 집에 있는 걸로 간단히 · ☕ 커피는 근처 테이크아웃 — <strong>Kai Coffee</strong> (길 건너 하얏트 · 05:30~) 또는 <strong>Island Vintage</strong> (RHC · 05:00~)</div></div></li><li><div class="t">09:00</div><div class="c"><div class="place">출발 (H-1→H-2→99번, 약 45분)</div><div class="what">발렛 출차 미리 요청</div></div></li><li><div class="t">09:50–10:30</div><div class="c"><div class="place"><a href="https://www.google.com/maps/search/?api=1&query=Dole+Plantation" target="_blank" rel="noopener"><strong>돌 플랜테이션</strong></a> (09:30–17:30)</div><div class="what"><strong>짧게</strong> — 현지인은 "지나가며 잠깐 들르는 곳" 평 · Dole Whip · 정원 무료 (기차 $15 · 미로 $10은 선택)</div><div class="park">🅿 무료 (미확인)</div></div></li><li><div class="t">10:50–12:30</div><div class="c"><div class="place">🥾 <a href="https://www.google.com/maps/search/?api=1&query=Waimea+Valley" target="_blank" rel="noopener"><strong>와이메아 밸리</strong></a> (화–일 09–16)</div><div class="what">폭포까지 포장 산책 · 성인 $26 · 62세 이상 $20 · 셔틀 편도 $10 · 길 미끄러우면 폭포는 셔틀로 · 가는 길에 라니아케아를 지나요 — <strong>거북이가 보이고 자리 있으면 잠깐, 기본은 통과</strong></div><div class="park">🅿 <strong>1시간 $2 · 최대 4시간 $5</strong> (입장객 전용, 해변용 주차 시 견인)</div><figure class="routemap"><img src="maps/hike-waimea.webp?v=31b8907c65" loading="lazy" width="1000" height="640" alt="하이킹: 와이메아 밸리 지도"><figcaption><div class="rm-stops"><b>🥾 와이메아 밸리 코스</b> · <b>①</b> 입구 (방문자센터) → <b>②</b> 와이메아 폭포</div><div class="rm-meta">왕복 약 2.4km 포장 산책로 · 셔틀 편도 $10 · 초록 선 = 걷는 길 (대략)</div><div class="rm-links">🧭 구글 지도 <a href="https://www.google.com/maps/search/?api=1&amp;query=21.635275,-158.052933" target="_blank" rel="noopener">📍 입구</a></div></figcaption></figure></div></li><li><div class="t">12:45–13:30</div><div class="c"><div class="place"><a href="https://www.google.com/maps/search/?api=1&query=Giovanni%27s+Shrimp+Truck+Haleiwa" target="_blank" rel="noopener"><strong>Giovanni's 할레이바</strong></a> (10:30–17:00)</div><div class="what">점심 — 갈릭 쉬림프 스캠피 (🍴 이번 여행 새우는 여기서) · 줄이 길면 <strong>Big Wave Shrimp</strong> (갈릭 쉬림프 독자 투표 1위) 또는 근처 한식 트럭 <strong>Young's Lunch Wagon</strong> (66-521 · 가이드북 '로라 이모네'로 추정)</div><div class="park">🅿 푸드트럭 주차장 <strong>$2–3 현금</strong></div></div></li><li><div class="t">13:30–16:00</div><div class="c"><div class="place">🛍 <a href="https://www.google.com/maps/search/?api=1&query=Haleiwa+Store+Lots" target="_blank" rel="noopener"><strong>할레이바 타운</strong></a> (비 피크 — 실내 위주 · 여유 있게)</div><div class="what">Haleiwa Store Lots · North Shore Marketplace (서핑 브랜드, Clark Little 갤러리) · <strong>마츠모토 셰이브아이스</strong> (10–18, 줄이 길면 옆집 <strong>Aoki's</strong> — 현지인 선호) · Island Vintage Coffee 할레이바 (07–17, 아사이볼) · 지치면 Joe's 앞 항구에서 쉬기</div><div class="park">🅿 고객용 무료</div></div></li><li><div class="t">16:15–18:00</div><div class="c"><div class="place">🌅 <a href="https://www.google.com/maps/search/?api=1&query=Haleiwa+Joe%27s+66-011+Kamehameha+Hwy+Haleiwa" target="_blank" rel="noopener"><strong>Haleiwa Joe's</strong></a> (할레이바 항구 옆 66-011 Kamehameha Hwy · 저녁 16:30~ · ☎ 808-637-8005)</div><div class="what">저녁 — <strong>예약 안 받음, 선착순 → 16:30 저녁 시작 무렵 도착해 바로 이름 올리기</strong> (일요일은 11시부터 열려 있어요 · 저녁 손님이 몰리기 전이 가장 짧고, 평일 16:45에 마지막 자리였다는 후기도 있어 늦지 않게) · 항구·바다 전망 야외석에서 <strong>노을 17:50쯤</strong> · 🍴 <strong>주문: 생선 요리(구운·찐 생선, 통생선 튀김)·스티키 립·블랙&amp;블루 아히</strong> (코코넛 새우·필앤잇 새우는 점심 Giovanni's와 겹침) · 프라임 립($74.95)은 크게 나와서 나눠 먹기</div><div class="park">🅿 무료 주차장 + 길가 무료 주차</div></div></li><li><div class="t">18:00–18:50</div><div class="c"><div class="place">할레이바 → 카카아코 (H-2→H-1 약 50분)</div></div></li><li><div class="t">18:50–19:30</div><div class="c"><div class="place">🛒 <a href="https://www.google.com/maps/search/?api=1&query=H+Mart+Kakaako+458+Keawe+St+Honolulu" target="_blank" rel="noopener"><strong>H Mart 카카아코</strong></a> (458 Keawe St 2층 · 매일 08–22시 · ★4.3 · 1,197)</div><div class="what"><strong>한인 마트 장보기 — 콘도 아침거리</strong> (쌀·반찬·김·라면·국거리·과일) · 3층엔 푸드홀도 · 와이키키 가는 길목이라 추가 10분이면 돼요</div><div class="park">🅿 건물 주차장 (매장 인증 여부 현장 확인)</div></div></li><li><div class="t">19:30–19:45</div><div class="c"><div class="place">콘도 복귀</div><div class="what">장본 것 정리하고 휴식</div><div class="park">🅿 발렛</div></div></li></ol>
 
 
 <ul>
 <li>⚠ <strong>11/8 (일) 아침 도로 통제:</strong> Val Nolasco 하프마라톤 05:00–11:00 — 칼라카우아·몬사랏·카피올라니 공원 일대 (시 교통국 공지) → <strong>전날 발렛에 09:00 출발을 알리고 출차·우회 경로 확인</strong></li>
 <li>🏄 HTA Haleʻiwa Pro <strong>대기기간 11/5–14</strong> — 파도가 맞으면 할레이바 Aliʻi 비치에서 서핑대회가 열려요 · 열리는 날이면 쇼핑 시간에 20~30분 구경 (주차 혼잡 주의)</li>
-<li>🚗 <strong>주말 정체:</strong> 날씨 좋은 일요일엔 할레이바 → 와이메아 구간(라니아케아 포함)이 1시간 넘게 막힐 수 있어요 (현지 경고) → 라니아케아가 붐비면 건너뛰고 와이메아 밸리로 바로</li>
-<li>☔ <strong>오후로 갈수록 비 (15~16시 85%) → 밸리·헤이아우를 오전으로, 점심·쇼핑을 오후로 재배치했어요 (11/5 밤 예보)</strong> · 소나기는 보통 10~20분 — 밸리 길이 많이 미끄러우면 폭포는 셔틀($10)로</li>
-<li>부모님 피곤하면: 헤이아우를 건너뛰고 할레이바로 바로 (Joe's 앞 항구에서 쉬기) · 저녁이 일찍 끝나 19:00쯤 와이키키 도착</li>
-<li><strong>와이메아 베이 일몰은 뺐어요 (11/3)</strong> — 노을은 Joe's 식탁에서 · 와이메아 베이는 헤이아우 언덕에서 내려다봐요</li>
+<li>🚗 <strong>주말 정체:</strong> 날씨 좋은 일요일엔 할레이바 → 와이메아 구간(라니아케아 포함)이 1시간 넘게 막힐 수 있어요 (현지 경고) → 라니아케아는 뺐으니 막히면 그대로 통과해 밸리로</li>
+<li>☔ <strong>오후로 갈수록 비 (15~16시 85%) → 밸리를 오전으로, 점심·쇼핑을 오후로 재배치했어요 (11/5 밤 예보)</strong> · 소나기는 보통 10~20분 — 밸리 길이 많이 미끄러우면 폭포는 셔틀($10)로</li>
+<li>✂ <strong>스탑 다이어트 (11/7 밤):</strong> ☕ 그린 월드(→ 아침 커피는 숙소 근처 테이크아웃) · 🐢 라니아케아(일요일 정체 + 길 건너 갓길 주차 위험) · 🏞 헤이아우(좁은 언덕길 왕복 20분) <strong>셋을 뺌</strong> — 스탑 7→4곳, 밸리·쇼핑·저녁에 여유</li>
+<li><strong>와이메아 베이 일몰은 뺐어요 (11/3)</strong> — 노을은 Joe's 식탁에서 · 와이메아 베이는 밸리 가는 길에 차창으로</li>
 <li><strong>Ted's Bakery도 뺐어요 (11/3)</strong> — 헤이아우를 여유 있게 보려고 앞 일정을 35분 당김 (돌 플랜테이션 30분 · 할레이바 55분 · 와이메아 밸리 1시간 35분)</li>
 <li>에후카이 필박스는 삭제 — 진흙 급경사 + 일몰 직전 하산이라 뒤 일정이 연쇄 지연</li>
 <li>☕ 아침을 나가서 먹고 싶은 날 (도보): <strong>Lulu's Waikiki</strong> ★4.4 (7,242 · 도보 4분 · 2층 오션뷰 · 07:00~) · <strong>Barefoot Beach Cafe</strong> ★4.4 (4,924 · 도보 8분 · 해변 앞 · 08:00~) · <strong>Kai Coffee</strong> ★4.4 (길 건너 하얏트 · 05:30~) · <strong>Eggs 'n Things Eggspress</strong> ★4.1 (바로 옆 · 06:00~) · <strong>무스비 이야스메</strong> ★4.5 (도보 4분 · 포장) · 일요일 Eggs 'n Things는 대기 20–60분</li>
@@ -1102,7 +1102,7 @@ footer { max-width: 1100px; margin: 0 auto; padding: 0 16px 48px; color: var(--m
 <tr>
 <td data-label="코스"><span class="v"><strong>83번 노스쇼어</strong></span></td>
 <td data-label="날짜"><span class="v">11/8 일</span></td>
-<td data-label="가는 길 (도로 번호)"><span class="v">와이키키 → H-1 서쪽 → H-2 북쪽 → <strong>99번 Kamehameha Hwy</strong> → 돌 플랜테이션 → 할레이바 → <strong>83번</strong> 해안 → 라니아케아 → 와이메아 밸리 → 푸우 오 마후카 헤이아우 (와이메아 베이 전망) → 할레이바 저녁 (Joe's에서 노을) · 돌아올 때 같은 길</span></td>
+<td data-label="가는 길 (도로 번호)"><span class="v">와이키키 → H-1 서쪽 → H-2 북쪽 → <strong>99번 Kamehameha Hwy</strong> → 돌 플랜테이션 → 할레이바 → <strong>83번</strong> 해안 → 와이메아 밸리 → 할레이바 점심·쇼핑·저녁 (Joe's에서 노을) · 돌아올 때 같은 길</span></td>
 <td data-label="볼거리"><span class="v">서핑의 성지 노스쇼어 ✅</span></td>
 </tr>
 <tr>
@@ -1146,7 +1146,7 @@ footer { max-width: 1100px; margin: 0 auto; padding: 0 16px 48px; color: var(--m
 <li><strong>레스토랑 604 (Restaurant 604)</strong> · 진주만 · 6,089 · ★4.4 — ✅ 11/5 점심</li>
 <li><strong>멍키포드 키친 코올리나 (Monkeypod Kitchen by Merriman Ko Olina)</strong> · 서부 · 5,526 · ★4.4 — ✅ 11/9 점심 📖</li>
 <li><strong>에그스앤띵스 (Eggs 'n Things Waikiki)</strong> · 와이키키 · 5,209 · ★4.1 — ↪ 아침 도보 대안 (조식은 콘도에서)</li>
-<li><strong>그린 월드 커피 팜 (Green World Coffee Farm)</strong> · 중부 · 4,980 · ★4.6 — ✅ 11/8 커피 📖</li>
+<li><strong>그린 월드 커피 팜 (Green World Coffee Farm)</strong> · 중부 · 4,980 · ★4.6 — ❌ 11/8 뺌 (아침 커피는 숙소 근처 테이크아웃) 📖</li>
 <li><strong>마우이 브루잉 (Maui Brewing Co. Waikiki)</strong> · 와이키키 · 4,866 · ★4.1 — ↪ 11/7 저녁 대안 (11/5 교체)</li>
 <li><strong>테즈 베이커리 (Ted's Bakery)</strong> · 노스쇼어·라이에 · 4,682 · ★4.5 — 11/8에서 뺌 (헤이아우로)</li>
 <li><strong>울프강 스테이크하우스 (Wolfgang's Steakhouse Waikiki)</strong> · 와이키키 · 4,554 · ★4.2 — ↪ 11/9 저녁 대안</li>
@@ -1209,7 +1209,7 @@ footer { max-width: 1100px; margin: 0 auto; padding: 0 16px 48px; color: var(--m
 <li><strong>라니카이 필박스 (Lanikai Pillbox Hike)</strong> · 동부 해안·카일루아 · 3,593 · ★4.8 — ✅ 11/6 선택</li>
 </ol>
 <ul>
-<li>순위 밖 일정 장소: 라나이 전망대 (Lanai Lookout) 3,581 (11/6 오전) · 선셋 비치 파크 (Sunset Beach Park) 2,465 (일정 밖 · 헤이아우에서 5분) · 마카하 비치 파크 (Makaha Beach Park) 2,282 (11/9 오전) · 라니카이 비치 (Lanikai Beach) 2,205 (11/6 오후) · 라니아케아 비치 (Laniakea Beach) 1,175 (11/8 오후) · 코올리나 라군 (Ko Olina Lagoons) 1,146 (11/9 오전) · 라이언 수목원 (Lyon Arboretum) 879 (11/9 대안) · 케아와울라 비치(요코하마 베이) (Keawaula Beach (Yokohama Bay)) 669 (11/9 오전) · 푸우 오 마후카 헤이아우 (Puu o Mahuka Heiau) 278 (11/8 선택)</li>
+<li>순위 밖 일정 장소: 라나이 전망대 (Lanai Lookout) 3,581 (11/6 오전) · 선셋 비치 파크 (Sunset Beach Park) 2,465 (일정 밖 · 헤이아우에서 5분) · 마카하 비치 파크 (Makaha Beach Park) 2,282 (11/9 오전) · 라니카이 비치 (Lanikai Beach) 2,205 (11/6 오후) · 라니아케아 비치 (Laniakea Beach) 1,175 (11/8 뺌 — 지나며 보이면 잠깐) · 코올리나 라군 (Ko Olina Lagoons) 1,146 (11/9 오전) · 라이언 수목원 (Lyon Arboretum) 879 (11/9 대안) · 케아와울라 비치(요코하마 베이) (Keawaula Beach (Yokohama Bay)) 669 (11/9 오전) · 푸우 오 마후카 헤이아우 (Puu o Mahuka Heiau) 278 (11/8 뺌)</li>
 </ul>
 <h3 id="쇼핑-상위-25">🛍 쇼핑 (상위 25)</h3>
 <ol>
@@ -1254,7 +1254,7 @@ footer { max-width: 1100px; margin: 0 auto; padding: 0 16px 48px; color: var(--m
 - ★4.8 이상 대안은 '리뷰 쓰면 서비스' 여부를 검증해서 의심(⚠)이면 빼요 — 옐프 평점 차이 · 개업 시기 · 현지 글<br />
 - 그 대안이 현지 평가에서 "관광객용"이거나 호불호가 갈리고, 지금 장소에 <strong>지역 수상(Hale ʻAina 등)이나 현지인 추천</strong>이 있으면 그대로 둬요.<br />
 - <strong>마지막 만찬처럼 분위기가 목적인 끼니는 예외</strong>로 해요.</p>
-<p><strong>11/3 추가 변경:</strong> 비싼 저녁 3끼를 <strong>맥주집</strong>으로 바꿨어요 — 11/5 Yard House · 11/7 Maui Brewing 와이키키 · 11/9 Waikiki Brewing (모두 숙소에서 걸어가거나 택시 5분이라 운전자도 같이 마셔요) · <strong>11/4 현지 변경:</strong> 11/4 저녁 DECK.→마루가메 우동 · <strong>11/5 저녁 Yard House→Arancino di Mare · 11/6 저녁 Buzz's→Hau Tree(해변 나무 테라스) · 11/7 저녁 Maui Brewing→Suntory(일식)</strong> (하와이식 연속·맥주집 분위기 비선호) · <strong>11/8 저녁 Haleiwa Joe's</strong> (16:30 저녁 시작 + 노을, 와이메아 베이 일몰 대신) · <strong>11/5 밤 추가: 11/6 저녁 Hau Tree→🌮 Surf N Turf Tacos</strong> (48시간 내 취소·변경 수수료 $15/인 → 예약 리스크 없는 워크인으로) · <strong>11/6 확정: Surf N Turf→🍺 Yard House 19:00</strong> (테이크아웃 분위기 → 앉아서 먹는 곳으로) · <strong>11/6 오후: 투어는 15시쯤 복귀 → 이후는 추가 일정으로 재편 (11/7·11/9)</strong> · <strong>11/9 저녁 Waikiki Brewing→🐟 Nico's Pier 38</strong> (맥주집 비선호 + 시푸드 요청) · <strong>11/6 오후: 11/7 점심 Liliha→🍽 Makai Market 푸드코트</strong> (하와이안 메뉴 피로 — 각자 골라 먹기) · 정차지는 한 줄에 하나(블로홀 교훈) · 카페는 뷰 있는 곳으로 · <strong>11/6 밤: 11/7 전면 개편</strong> — <del>다이아몬드헤드</del>·KCC·미술관·알라모아나 취소 → ⛳ 와이켈레 골프 12:34 (큰형·나) + ⛪ 교회 10~14 (작은형·부모님) · 저녁 Suntory <strong>18:30 와쇼쿠 5명 예약 완료</strong> · <strong>11/7 밤: 실제 기록</strong> — 골프 12:34~17:30 완주 (복귀는 작은형 픽업 · 우버 편도 생략) · Suntory 19:30 도착, 단품 와슈규 샤브 $60/인 — <strong>와쇼쿠는 단품 주문 가능, 다음엔 AOI 코스($82·샤브 포함)</strong> · <strong>11/7 밤 ②: 조식 외식 전부 취소</strong> — 다들 아침은 콘도에서 (11/8 Duke's·11/9 Kaila·11/10 Heavenly 예약 안 함) · <strong>11/8 귀갓길 H Mart 카카아코 장보기 추가</strong> · 콘도 도보 아침 대안 조사: Lulu's ★4.4 (오션뷰)·Barefoot ★4.4·Kai Coffee ★4.4<br />
+<p><strong>11/3 추가 변경:</strong> 비싼 저녁 3끼를 <strong>맥주집</strong>으로 바꿨어요 — 11/5 Yard House · 11/7 Maui Brewing 와이키키 · 11/9 Waikiki Brewing (모두 숙소에서 걸어가거나 택시 5분이라 운전자도 같이 마셔요) · <strong>11/4 현지 변경:</strong> 11/4 저녁 DECK.→마루가메 우동 · <strong>11/5 저녁 Yard House→Arancino di Mare · 11/6 저녁 Buzz's→Hau Tree(해변 나무 테라스) · 11/7 저녁 Maui Brewing→Suntory(일식)</strong> (하와이식 연속·맥주집 분위기 비선호) · <strong>11/8 저녁 Haleiwa Joe's</strong> (16:30 저녁 시작 + 노을, 와이메아 베이 일몰 대신) · <strong>11/5 밤 추가: 11/6 저녁 Hau Tree→🌮 Surf N Turf Tacos</strong> (48시간 내 취소·변경 수수료 $15/인 → 예약 리스크 없는 워크인으로) · <strong>11/6 확정: Surf N Turf→🍺 Yard House 19:00</strong> (테이크아웃 분위기 → 앉아서 먹는 곳으로) · <strong>11/6 오후: 투어는 15시쯤 복귀 → 이후는 추가 일정으로 재편 (11/7·11/9)</strong> · <strong>11/9 저녁 Waikiki Brewing→🐟 Nico's Pier 38</strong> (맥주집 비선호 + 시푸드 요청) · <strong>11/6 오후: 11/7 점심 Liliha→🍽 Makai Market 푸드코트</strong> (하와이안 메뉴 피로 — 각자 골라 먹기) · 정차지는 한 줄에 하나(블로홀 교훈) · 카페는 뷰 있는 곳으로 · <strong>11/6 밤: 11/7 전면 개편</strong> — <del>다이아몬드헤드</del>·KCC·미술관·알라모아나 취소 → ⛳ 와이켈레 골프 12:34 (큰형·나) + ⛪ 교회 10~14 (작은형·부모님) · 저녁 Suntory <strong>18:30 와쇼쿠 5명 예약 완료</strong> · <strong>11/7 밤: 실제 기록</strong> — 골프 12:34~17:30 완주 (복귀는 작은형 픽업 · 우버 편도 생략) · Suntory 19:30 도착, 단품 와슈규 샤브 $60/인 — <strong>와쇼쿠는 단품 주문 가능, 다음엔 AOI 코스($82·샤브 포함)</strong> · <strong>11/7 밤 ②: 조식 외식 전부 취소</strong> — 다들 아침은 콘도에서 (11/8 Duke's·11/9 Kaila·11/10 Heavenly 예약 안 함) · <strong>11/8 귀갓길 H Mart 카카아코 장보기 추가</strong> · 콘도 도보 아침 대안 조사: Lulu's ★4.4 (오션뷰)·Barefoot ★4.4·Kai Coffee ★4.4 · <strong>11/7 밤 ③: 11/8 스탑 다이어트</strong> — 그린 월드(커피는 숙소 근처 테이크아웃)·라니아케아·헤이아우 뺌, 돌→밸리→Giovanni's→할레이바 4곳만<br />
 <strong>결과:</strong> 식사 <strong>4끼를 바꿨어요</strong> — 11/4 저녁 DECK. · 11/5 저녁 Tommy Bahama · 11/8 아침 Duke's 조식 뷔페 · 11/10 아침 Heavenly. 기준에 걸린 나머지 3끼(11/4 점심 · 11/7 점심 · 11/9 아침)는 비교해 보고 그대로 뒀어요 <em>(11/7 점심은 이후 11/6에 푸드코트로 변경)</em>. 커피 4곳은 앞서 바꿨고, 트로피컬 팜스는 선택 정차로 더했어요.<br />
 숫자는 11/3에 <strong>구글 지도 API로 직접 받은 값</strong>이에요(리뷰 수 · ★평점). "리뷰 수 1위"는 사람이 가장 많이 갔다는 뜻이고 맛 순위는 아니에요.</p>
 </blockquote>
@@ -1344,7 +1344,7 @@ footer { max-width: 1100px; margin: 0 auto; padding: 0 16px 48px; color: var(--m
 <td data-label="날짜 · 끼니"><span class="v">11/8 커피</span></td>
 <td data-label="지금 장소 (리뷰 · ★ · 현지)"><span class="v">Island Vintage 할레이바 (739 · 4.5 · 👍)</span></td>
 <td data-label="같은 동선 대안"><span class="v"><strong>Green World Coffee Farm</strong> (4,980 · 4.6 · 돌 플랜테이션 가는 길 · 일 07–18)</span></td>
-<td data-label="판단"><span class="v"><strong>변경</strong> — 리뷰 7배이고 99번 도로 길가라 돌아가지 않아요. Island Vintage는 아사이볼용으로 남겨요.</span></td>
+<td data-label="판단"><span class="v"><strong>변경</strong> — 리뷰 7배이고 99번 도로 길가라 돌아가지 않아요. Island Vintage는 아사이볼용으로 남겨요. → <strong>❌ 뺌 (11/7 밤)</strong> — 아침 커피는 숙소 근처 테이크아웃으로</span></td>
 </tr>
 <tr>
 <td data-label="날짜 · 끼니"><span class="v">11/8 빙수</span></td>
@@ -1928,15 +1928,15 @@ footer { max-width: 1100px; margin: 0 auto; padding: 0 16px 48px; color: var(--m
 <li><a href="https://www.google.com/maps/search/?api=1&amp;query=H+Mart+Kakaako+458+Keawe+St+Honolulu" target="_blank" rel="noopener">🛒 H Mart 카카아코 — 귀갓길 한인 마트 (08–22시)</a></li>
 <li><a href="https://www.google.com/maps/search/?api=1&amp;query=Lulu%27s+Waikiki+2586+Kalakaua+Ave+Honolulu" target="_blank" rel="noopener">Lulu's Waikiki — 아침 도보 대안 (오션뷰)</a></li>
 <li><a href="https://www.google.com/maps/search/?api=1&amp;query=Eggs+%27n+Things+Eggspress+2464+Kalakaua+Ave+Honolulu" target="_blank" rel="noopener">Eggs 'n Things Eggspress — 아침 대안</a></li>
-<li><a href="https://www.google.com/maps/search/?api=1&amp;query=Green+World+Coffee+Farm+Wahiawa" target="_blank" rel="noopener">Green World Coffee Farm — 커피 (돌 플랜테이션 가는 길)</a></li>
+<li><a href="https://www.google.com/maps/search/?api=1&amp;query=Green+World+Coffee+Farm+Wahiawa" target="_blank" rel="noopener">Green World Coffee Farm — ❌ 뺌 (커피는 숙소 근처 테이크아웃)</a></li>
 <li><a href="https://www.google.com/maps/search/?api=1&amp;query=Dole+Plantation" target="_blank" rel="noopener">돌 플랜테이션</a></li>
 <li><a href="https://www.google.com/maps/search/?api=1&amp;query=Haleiwa+Store+Lots" target="_blank" rel="noopener">할레이바 스토어 랏</a></li>
 <li><a href="https://www.google.com/maps/search/?api=1&amp;query=North+Shore+Marketplace+Haleiwa" target="_blank" rel="noopener">North Shore Marketplace</a></li>
 <li><a href="https://www.google.com/maps/search/?api=1&amp;query=Matsumoto+Shave+Ice+Haleiwa" target="_blank" rel="noopener">마츠모토 셰이브아이스</a></li>
 <li><a href="https://www.google.com/maps/search/?api=1&amp;query=Giovanni%27s+Shrimp+Truck+Haleiwa" target="_blank" rel="noopener">Giovanni's 할레이바 — 점심</a></li>
-<li><a href="https://www.google.com/maps/search/?api=1&amp;query=Laniakea+Beach" target="_blank" rel="noopener">라니아케아 비치 (거북이)</a></li>
+<li><a href="https://www.google.com/maps/search/?api=1&amp;query=Laniakea+Beach" target="_blank" rel="noopener">라니아케아 비치 — ❌ 뺌 (지나며 보이면 잠깐)</a></li>
 <li><a href="https://www.google.com/maps/search/?api=1&amp;query=Waimea+Valley" target="_blank" rel="noopener">와이메아 밸리</a></li>
-<li><a href="https://www.google.com/maps/search/?api=1&amp;query=Puu+o+Mahuka+Heiau+State+Historic+Site" target="_blank" rel="noopener">푸우 오 마후카 헤이아우 — 와이메아 베이 전망 (15:05)</a></li>
+<li><a href="https://www.google.com/maps/search/?api=1&amp;query=Puu+o+Mahuka+Heiau+State+Historic+Site" target="_blank" rel="noopener">푸우 오 마후카 헤이아우 — ❌ 뺌 (스탑 줄이기)</a></li>
 <li><a href="https://www.google.com/maps/search/?api=1&amp;query=Waimea+Bay+Beach+Park" target="_blank" rel="noopener">와이메아 베이 — 선택 (밸리 건너편 · 일몰 일정은 뺌)</a></li>
 <li><a href="https://www.google.com/maps/search/?api=1&amp;query=Haleiwa+Joe%27s+66-011+Kamehameha+Hwy+Haleiwa" target="_blank" rel="noopener">Haleiwa Joe's — 저녁 (16:30 저녁 시작 맞춰 · 노을)</a></li>
 <li><a href="https://www.google.com/maps/search/?api=1&amp;query=Haleiwa+Beach+House" target="_blank" rel="noopener">Haleiwa Beach House — 저녁 대안 (400m, 워크인)</a></li>
@@ -2510,10 +2510,9 @@ footer { max-width: 1100px; margin: 0 auto; padding: 0 16px 48px; color: var(--m
 · 🌺 훌라 쇼 18:00 잠깐 (선택) → 18:30 🍚 Suntory 와쇼쿠 ✅ (골프팀은 골프장에서 식당 직행)
 
 11/8(일) 🐢 노스쇼어
-· 🏠 콘도 아침 → 🍍 돌 플랜테이션
-· 🛍 할레이바 + 🍧 마츠모토 빙수 → 🍤 Giovanni's 새우
-· 🐢 라니아케아 거북이 → 🥾 와이메아 밸리 폭포
-· 🏞 헤이아우 언덕 (와이메아 베이 전망) → 🌅 Haleiwa Joe's 노을 저녁 (16:15 도착)
+· 🏠 콘도 아침 (커피는 근처 테이크아웃) → 🍍 돌 플랜테이션
+· 🥾 와이메아 밸리 폭포 → 🍤 Giovanni's 새우 점심
+· 🛍 할레이바 타운 + 🍧 마츠모토 빙수 → 🌅 Haleiwa Joe's 노을 저녁 (16:15 도착)
 · 🛒 귀갓길 H Mart 카카아코 — 한인 마트 장보기 (아침거리)
 
 11/9(월) 🏝 서쪽 해안 드라이브 + 쇼핑
@@ -2589,7 +2588,7 @@ footer { max-width: 1100px; margin: 0 auto; padding: 0 16px 48px; color: var(--m
 ☐ 위탁 수하물 23kg 초과 주의 — 귀국 때 아울렛 쇼핑 짐도
 ☐ 액체류 100ml 이하·투명 지퍼백 (총 1L) · 보조배터리는 기내 가방에</pre></div></section>
 </main>
-<footer>업데이트 2026-11-08 21:58 KST · 영업시간·주차는 2026-11-02 웹 조사 + Codex 검수 기준입니다. (미확인) 항목은 방문 전날 구글맵·전화로 다시 확인하세요. 체크 표시는 이 기기에만 저장됩니다. 사진: Wikimedia Commons 자유 이용 사진 — 사진을 누르면 저작자·라이선스 원문으로 이동합니다.</footer>
+<footer>업데이트 2026-11-08 22:08 KST · 영업시간·주차는 2026-11-02 웹 조사 + Codex 검수 기준입니다. (미확인) 항목은 방문 전날 구글맵·전화로 다시 확인하세요. 체크 표시는 이 기기에만 저장됩니다. 사진: Wikimedia Commons 자유 이용 사진 — 사진을 누르면 저작자·라이선스 원문으로 이동합니다.</footer>
 <button class="top-btn" id="topBtn" aria-label="맨 위로">↑</button>
 <script>
 (function () {
